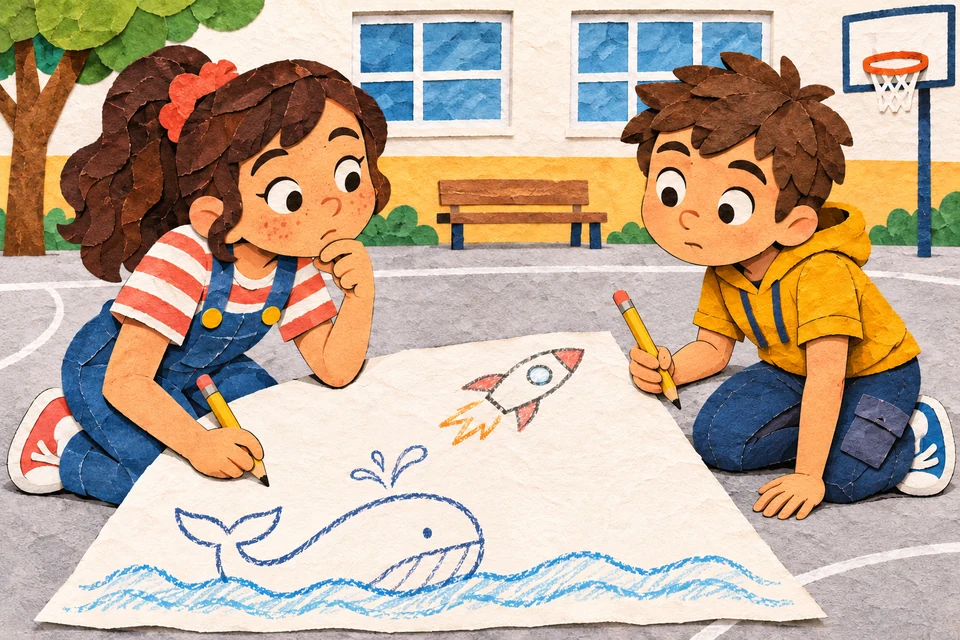
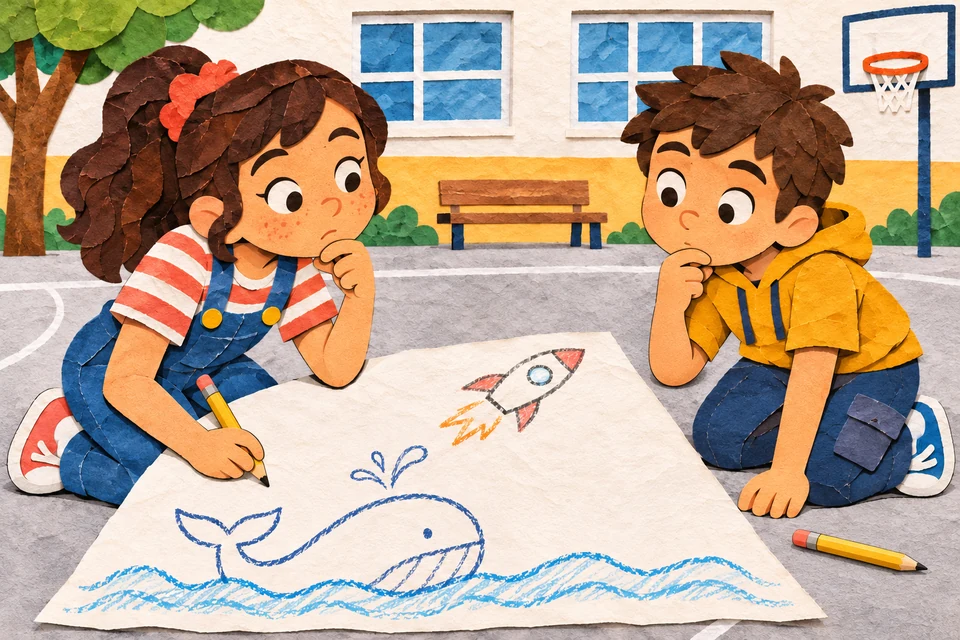
Correct the pose of Iker in reading L026

diff --git a/data/readings-4-es.js b/data/readings-4-es.js
@@ -370,7 +370,7 @@ export const readings4Es = [
         "src": "assets/readings/l026-un-espacio-en-la-pared.webp",
         "width": 960,
         "height": 640,
-        "alt": "Ada e Iker dibujan en un papel grande. En el boceto se ven una ballena y un cohete.",
+        "alt": "Ada sostiene un lápiz sobre un boceto con una ballena y un cohete. Iker mira el dibujo con una mano en la barbilla y su lápiz en el suelo.",
         "afterParagraph": 2
       }
     ],

diff --git a/assets/readings/L026-illustracio.md b/assets/readings/L026-illustracio.md
@@ -5,6 +5,6 @@ Imatge `l026-un-espacio-en-la-pared.webp`, generada amb el generador integrat i 
 ```text
 Landscape 3:2 editorial illustration for a fourth-grade Spanish worksheet, in textured cut-paper collage with hand-painted paper. Two classmates, Ada and Iker, kneel on a school courtyard floor planning a mural on one oversized sheet. Show the rough sketch before it is finished: a simple whale in blue water at the bottom and a small rocket in the sky above. The two children each hold a pencil and look thoughtfully at the paper. Color palette: deep navy, sky blue, warm ochre, coral and white. Bold clear outlines and light background for black-and-white printing. No completed mural, no lettering, no border.
 
-Revisió:
-Correct the boy on the right so he has precisely two arms and two hands. His right hand holds the pencil beside the paper; his left hand rests flat on the courtyard floor supporting his weight. Completely remove the additional hand touching his chin, including that extra wrist and arm. His face, pose and elbow on the remaining arms should look natural. Preserve the girl, collage technique, sheet with whale and rocket, colors and horizontal 3:2 composition. No text.
+Revisió publicada:
+Retouch this exact landscape colored cut-paper illustration. Keep the whole composition, schoolyard, character designs, girl's two hands and the pencil she is holding, and the whale and rocket drawing. Edit only the yellow-shirted boy on the right in the small area around the pencil and elbow, plus move his pencil to the ground. Keep his hand touching his chin, exactly as it already is, and keep the other hand braced against the pavement below his knee, exactly as it already is. Completely remove the anomalous EXTRA hand (three curled fingers around the upright yellow pencil at about 68% width, 56% height). The bent arm that supports the chin has a clean continuous forearm down to a rounded elbow; it has no fingers at its elbow. Reconstruct that area with normal smooth elbow and gray pavement / paper edge as needed. The boy has exactly two hands visible: one at chin, one on pavement. Both of his hands are empty. Place the removed yellow pencil lying flat on the bare gray pavement in front of the boy, to the right of the drawing paper, lower right quadrant; separate it clearly from both his hands with visible space, and show a subtle contact shadow. Match the paper textures and colors of the reference, same 3:2 framing.
 ```
